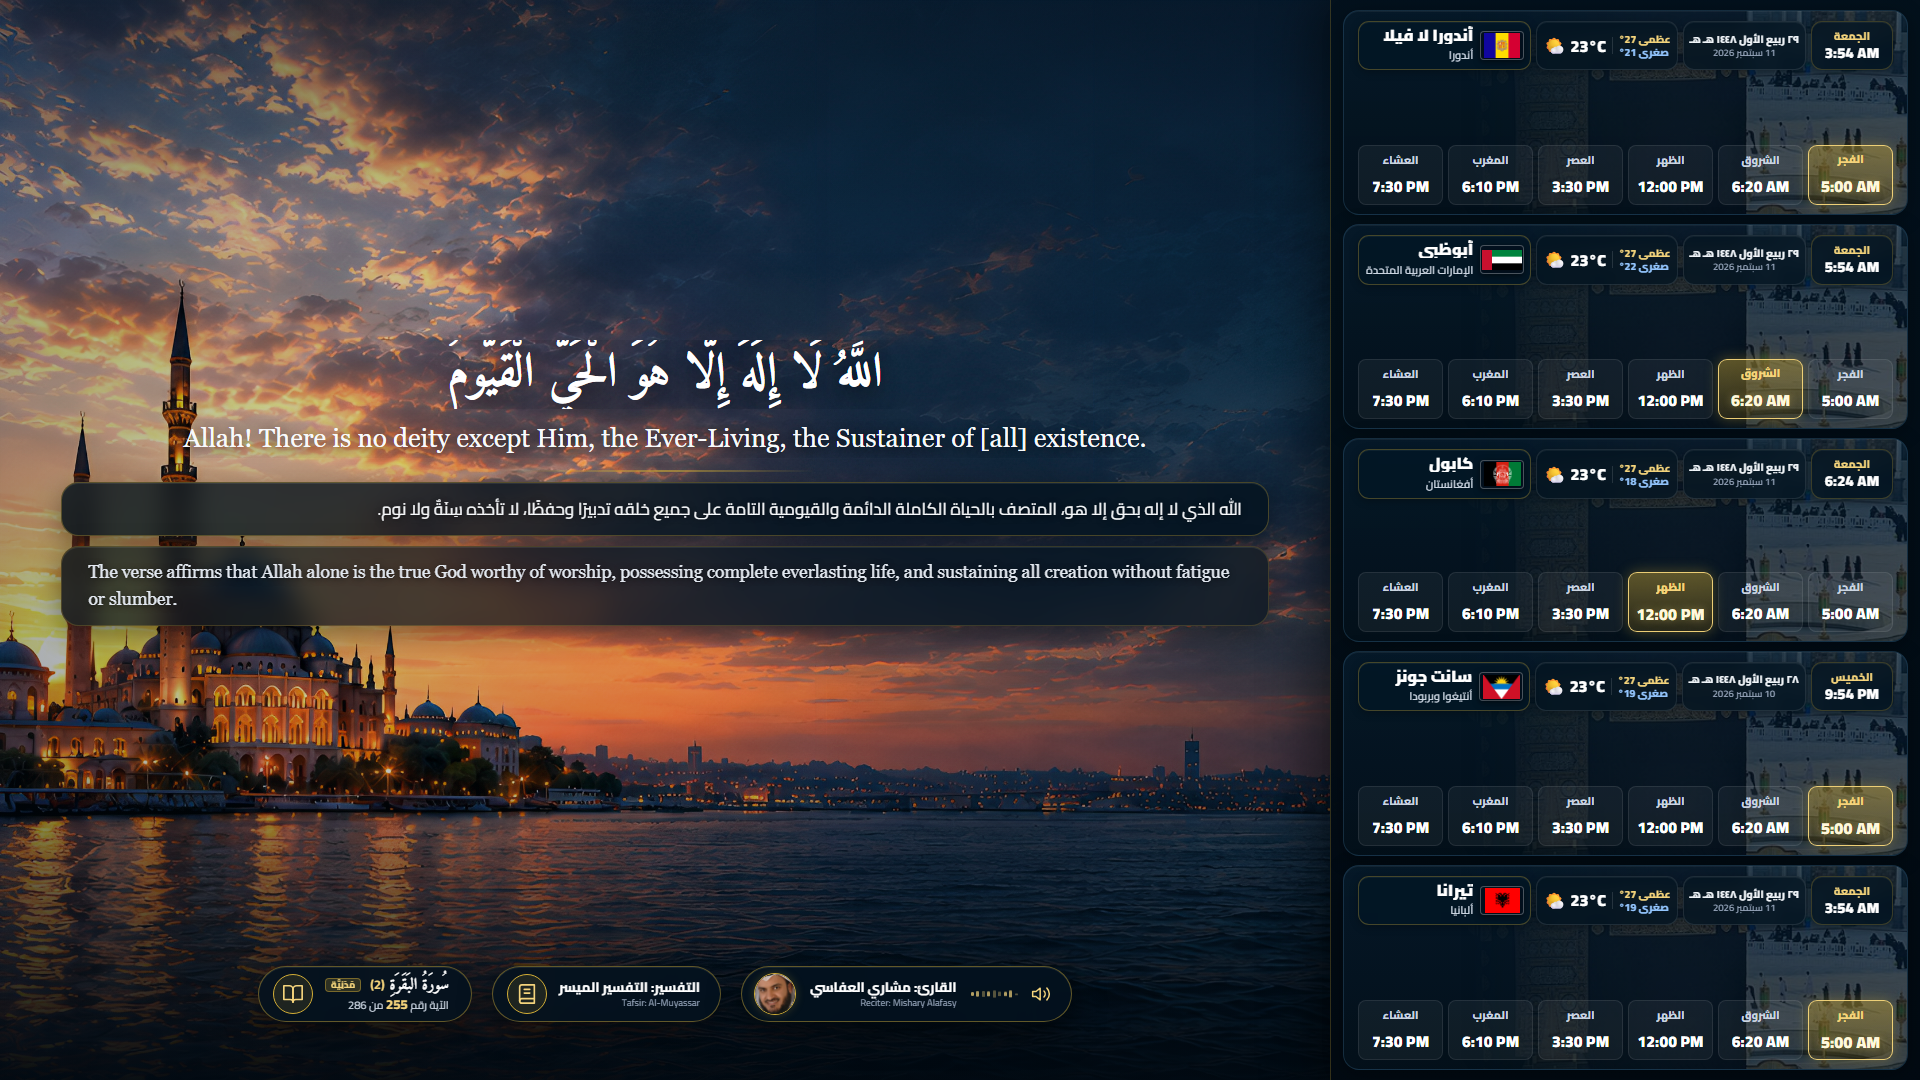
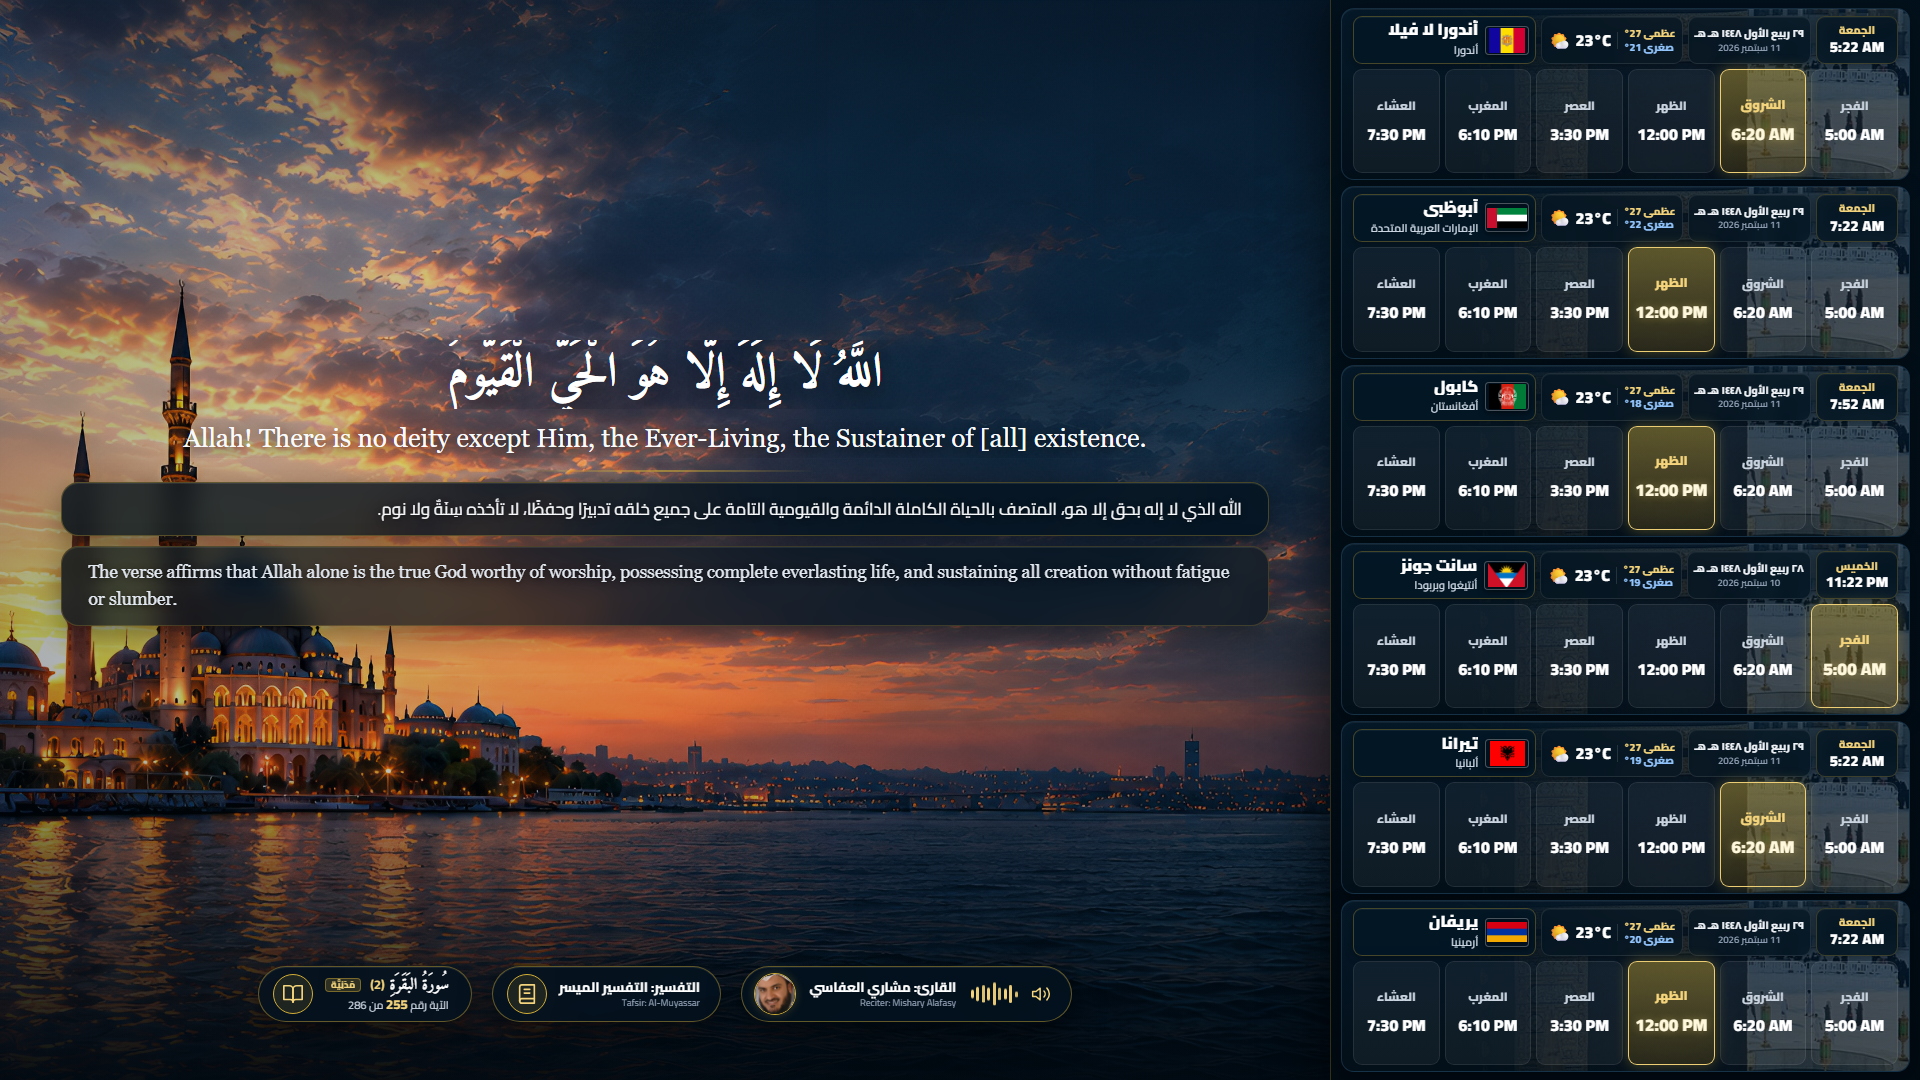
feat: display 6 city cards and optimize card space utilization

Changed region(s): [[0.6875, 0.0, 1.0, 1.0], [0.5, 0.9167, 0.5312, 0.9472]]

diff --git a/web/style.css b/web/style.css
@@ -397,14 +397,14 @@ html, body {
   box-shadow: -15px 0 50px rgba(0, 0, 0, 0.45);
   display: flex;
   flex-direction: column;
-  padding: 10px 12px;
+  padding: 8px 10px;
   direction: ltr;
 }
 
 .city-cards-list {
   display: grid;
-  grid-template-rows: repeat(5, 1fr);
-  gap: 9px;
+  grid-template-rows: repeat(6, 1fr);
+  gap: 6px;
   flex: 1;
   height: 100%;
   min-height: 0;
@@ -414,9 +414,9 @@ html, body {
 .city-card {
   position: relative;
   border: 1px solid var(--card-border);
-  border-radius: 16px;
+  border-radius: 13px;
   background: var(--card-bg);
-  padding: 10px 14px 9px;
+  padding: 7px 11px 6px;
   overflow: hidden;
   display: flex;
   flex-direction: column;
@@ -446,17 +446,19 @@ html, body {
   justify-content: space-between;
   gap: 5px;
   direction: rtl;
+  height: 48px;
 }
 
 .meta-subcard {
   background: rgba(3, 20, 32, 0.72);
   border: 1px solid rgba(255, 255, 255, 0.1);
-  border-radius: 11px;
-  padding: 4px 6px;
+  border-radius: 9px;
+  padding: 3px 6px;
   display: flex;
   align-items: center;
   box-shadow: 0 2px 8px rgba(0, 0, 0, 0.28), inset 0 1px 0 rgba(255, 255, 255, 0.05);
   backdrop-filter: blur(8px);
+  height: 100%;
 }
 
 /* 1. Time & Day Subcard (Far Right in RTL) */
@@ -645,7 +647,7 @@ html, body {
   text-overflow: ellipsis;
 }
 
-/* Prayer Times 6-column Grid */
+/* Prayer Times 6-column Grid - Fills remaining card space cleanly */
 .prayer-times-row {
   position: relative;
   z-index: 2;
@@ -653,6 +655,8 @@ html, body {
   grid-template-columns: repeat(6, 1fr);
   gap: 5px;
   margin-top: 5px;
+  flex: 1;
+  min-height: 70px;
   direction: rtl;
 }
 
@@ -661,23 +665,24 @@ html, body {
   flex-direction: column;
   align-items: center;
   justify-content: center;
-  padding: 4px 2px 3px;
-  border-radius: 8px;
+  padding: 5px 2px;
+  border-radius: 9px;
   background: rgba(255, 255, 255, 0.05);
   border: 1px solid rgba(255, 255, 255, 0.09);
   text-align: center;
   transition: all 0.25s ease;
+  height: 100%;
 }
 
 .p-name {
-  font-size: 11px;
+  font-size: 12px;
   font-weight: 800;
   color: #cbd5e1;
   margin-bottom: 2px;
 }
 
 .p-time {
-  font-size: 15.5px;
+  font-size: 16px;
   font-weight: 900;
   color: #ffffff;
   font-variant-numeric: tabular-nums;
@@ -691,17 +696,17 @@ html, body {
   border: 1.5px solid rgba(245, 214, 122, 0.95);
   border-radius: 9px;
   box-shadow: 0 0 14px rgba(212, 175, 55, 0.35);
-  padding: 3.5px 2px 2.5px;
 }
 
 .p-col.active-next .p-name {
   color: var(--gold-light);
   font-weight: 900;
+  font-size: 12.5px;
 }
 
 .p-col.active-next .p-time {
   color: #fff8dc;
   font-weight: 900;
-  font-size: 16px;
+  font-size: 17px;
   text-shadow: 0 0 8px rgba(245, 214, 122, 0.4);
 }

diff --git a/web/app.js b/web/app.js
@@ -1,8 +1,8 @@
 // Quran Live Broadcast - Controller & Recitation Synchronizer
 const state = {
   page: 0,
-  perPage: 5,
-  totalPages: 39,
+  perPage: 6,
+  totalPages: 33,
   rotationSeconds: 35,
   rotationLeft: 35,
   cityData: [],
@@ -118,6 +118,26 @@ const defaultCities = [
       { name: 'العصر', time: '5:12', next: true },
       { name: 'المغرب', time: '8:58' },
       { name: 'العشاء', time: '10:37' }
+    ]
+  },
+  {
+    code: 'PS',
+    nameAr: 'فلسطين',
+    capitalAr: 'القدس الشريف',
+    flag: '/assets/flags/ps.png',
+    landmark: '/assets/makkah.jpg',
+    timezone: 'Asia/Jerusalem',
+    weather: { temp: '22°C', icon: '☀', max: '26°', min: '17°' },
+    timeDisplay: '8:15 AM',
+    dateHijri: '12 شعبان 1447 هـ',
+    dateGreg: '26 فبراير 2025 م',
+    prayers: [
+      { name: 'الفجر', time: '4:45' },
+      { name: 'الشروق', time: '6:08' },
+      { name: 'الظهر', time: '12:35' },
+      { name: 'العصر', time: '4:02', next: true },
+      { name: 'المغرب', time: '6:42' },
+      { name: 'العشاء', time: '8:05' }
     ]
   }
 ];

diff --git a/web/server.js b/web/server.js
@@ -385,7 +385,7 @@ async function countrySnapshot(c) {
 
 async function capitalsPage(url) {
   const requested = Number(url.searchParams.get('page') || 0);
-  const size = Math.min(Math.max(Number(url.searchParams.get('size') || 5), 5), 18);
+  const size = Math.min(Math.max(Number(url.searchParams.get('size') || 6), 5), 18);
   const totalPages = Math.ceil(capitals.length / size);
   const page = ((requested % totalPages) + totalPages) % totalPages;
   const slice = capitals.slice(page * size, page * size + size);
